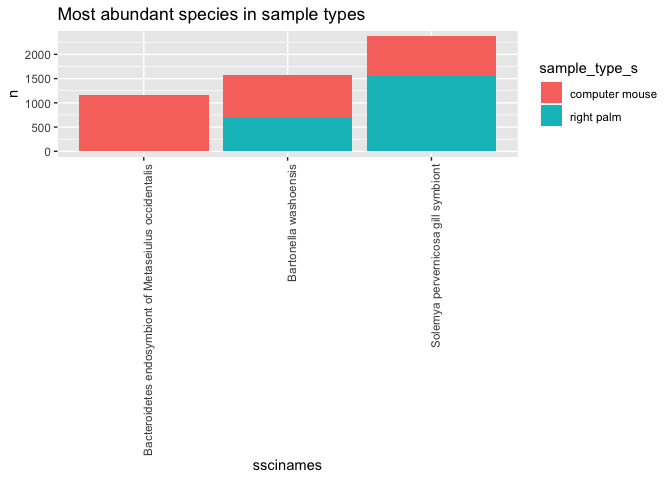
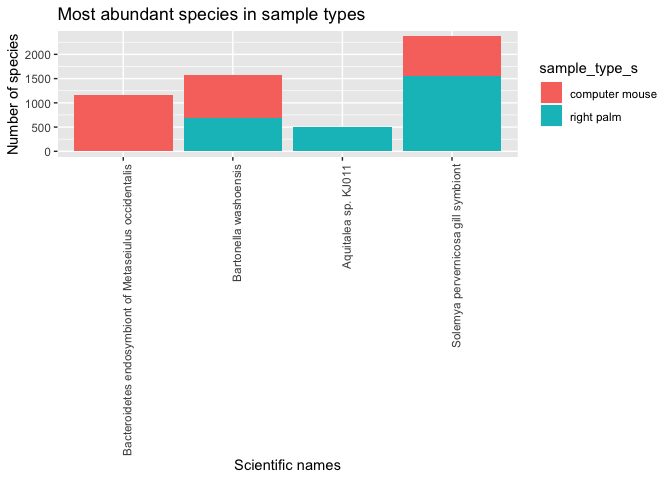
Add final project and analysis

diff --git a/Analysis_of_BLAST_Results.md b/Analysis_of_BLAST_Results.md
@@ -1,0 +1,273 @@
+Analysis of BLAST Results
+================
+Brian Rezende
+October 8, 2018
+
+Introduction
+============
+
+Advancements and implementation of sequencing caters to range of scientific questions that are in question. For instance, pyrosequencing is a method of DNA sequencing that relies on the detection of pyrophosphate release and generation of light on nucleotide incorporation. [Source](https://www.sciencedirect.com/topics/neuroscience/pyrosequencing) This particular type of sequencing has been beneficial in being able to quantitatively compare bacterial commmunities across various subjects. In scientific literature there has been an influx of research that highlights the diversity of skin-associated bacteria, which was once thought of as less diverse. This work has also demonstrated that there is high interindividual variability in the composition of these communities. Through using this approach we are better able to investigate communities that were once indistinguishable to us.
+
+Have you ever pondered on the number of individuals that pass through and use an institutes library a day? Quickly these spaces may turn into breeding grounds for bacteria and other microbial organisms. Though they remain invisible to the human eye, there is no denying their existence and ability to grow and spread exponentially. Fortunately, advancements in the field of sequencing have allowed for analysis of urban biomes. In this analysis we'll examine diverse skin-associated bacterial communities and their comparison to human bacterial communities. Findings centered around these communities have found that skin bacterial communities are personalized, yet there is a link between the residual skin bacteria left on objects and bacteria on the object that the individual last touched. This **revolutionary forensic practice** predicts and can even match the bacteria on objects that have been left untouched for up to two weeks. The bacteria range in place of origin and allow us to better understand the mechanisms of bacteria, the degree of variability, and to one day become integrated with *traditional* forensic practices.
+
+Methods
+=======
+
+Sample origin and sequencing
+----------------------------
+
+Fierer et. al provided the inital samples that promoted this analysis. They swabbed the palms of men and woman and computer mice at the University of Colorado, Boulder. By following a persistent trend that skin-associated bacteria leaves on objects and surfaces touched on a daily basis, they discovered abundant and diverse bacterial communities. The following criteria was required to properly link the bacteria from different environments: *Recovered bacterial DNA allows for adequate characterization and comparison of communities. *Persistance of skin-associated bacteria on surfaces for days to weeks \*Surfaces touched are effectively linked to individuals by assessing the similarity between the two bacterial communities. This was completed by carrying out three interrelated studies, which combined phylogenetic community analyses with a high throughput pyrosequencing approach.
+
+Add about a paragraph here.
+
+Computational
+-------------
+
+To initiate the project 20 raw fastq files were run through a pipeline that performed quality control checks. Information within these fastq files were from cultured swabs that originated from individual keys from three keyboards. These keyboard communities were then compared to the communities found on the fingertips of the respective keyboard user. These communities included the right palms of 5 human men, 5 human females, and 10 computer mice. The files were trimmed based on quality score and then converted to fasta files through the use of for loops. These files were then BLAST'ed against a local repository on GenBank to produce BLAST sequence code. By BLAST'ing a sample, it is being run against the database and looking for sequence matches. Following this pipeline, the fasta files were analyzed further by running the CSV files into an alternate pipeline. This allowed for greater specification in what the files contained and what we may infer from them.
+
+Once the BLAST sequence code was complete the output was marked down with R. The pyrosequencing technique aforementioned was used, thus generating an average of 1,4000 bacterial 16S rRNA gene sequences per sample. The BLAST results were transformed into figures rather than quantifiable data for further analysis. What this aims to answer is the validity of being able to quantitatively compare bacterial communities found on objects and skin to effectively match the individual to the object with a high degree of certainty.[Source](https://trace.ncbi.nlm.nih.gov/Traces/sra/sra.cgi?study=ERP022657) The final step included using another Genbank database with over 250 hand surfaces and matching the objects to specific individuals by the bacteria that was collected.
+
+The cultured swabs originated from individual keys from three keyboards. These keyboard communities were then compared to the communities found on the fingertips of the respective keyboard user. In order to further support their samples they obtained swabs from private and public computer keyboards to quantify the degree of correspondance between the owners "fingerprints" and their keyboard versus keyboards they have never used. Using the skin bacteria communities they examined how similar they were with objects stored at **-20ºC**. [Source](https://www.ncbi.nlm.nih.gov/bioproject/PRJEB20500/) This comparison is made due to the conditions closely matching ones that are imposed on stored samples before undergoing DNA extraction. The final step included using a Genbank database with over 250 hand surfaces and matching the objects to specific individuals by the bacteria that was collected.
+
+And another paragraph or two here.
+
+Results
+=======
+
+``` r
+# Be sure to install these packages before running this script
+# They can be installed either with the install.packages() function
+# or with the 'Packages' pane in RStudio
+
+# load packages
+library("dplyr")
+library("tidyr")
+library("knitr")
+library("ggplot2")
+```
+
+``` r
+# Output format from BLAST is as detailed on:
+# https://www.ncbi.nlm.nih.gov/books/NBK279675/
+# In this case, we used: '10 sscinames std'
+# 10 means csv format
+# sscinames means unique Subject Scientific Name(s), separated by a ';'
+# std means the standard set of result columns, which are:
+# 'qseqid sseqid pident length mismatch
+# gapopen qstart qend sstart send evalue bitscore',
+
+
+# this function takes as input a quoted path to a BLAST result file
+# and produces as output a dataframe with proper column headers
+# and the 'qseqid' column split into sample and seq number
+read_blast_output <- function(filename) {
+  data_in <- read.csv(filename,
+                      header = FALSE, # files don't have column names in them
+                      col.names = c("sscinames", # unique Subject Sci Name(s)
+                                    "qseqid",    # Query Seq-id
+                                    "sseqid",    # Subject Seq-id
+                                    "pident",    # Percntge of identical matches
+                                    "length",    # Alignment length
+                                    "mismatch",  # Number of mismatches
+                                    "gapopen",   # Number of gap openings
+                                    "qstart",    # Start of alignment in query
+                                    "qend",      # End of alignment in query
+                                    "sstart",    # Start of alignment in subj
+                                    "send",      # End of alignment in subject
+                                    "evalue",    # Expect value
+                                    "bitscore"))  # Bit score
+
+  # Next we want to split the query sequence ID into
+  # Sample and Number components so we can group by sample
+  # They originally look like "ERR1942280.1"
+  # and we want to split that into two columns: "ERR1942280" and "1"
+  # we can use the separate() function from the tidyr library to do this
+  # Note that we have to double escape the period for this to work
+  # the syntax is
+  # separate(column_to_separate,
+  # c("New_column_name_1", "New_column_name_2"),
+  # "seperator")
+  data_in <- data_in %>%
+    separate(qseqid, c("sample_name", "sample_number"), "\\.")
+}
+```
+
+``` r
+# this makes a vector of all the BLAST output file names, including
+# the name(s) of the directories they are in
+files_to_read_in <- list.files(path = "output/blast",
+                               full.names = TRUE)
+
+# We need to create an empty matrix with the right number of columns
+# so that we can rbind() each dataset on to it
+joined_blast_data <- matrix(nrow = 0,
+                            ncol = 14)
+
+# now we loop over each of the files in the list and append them
+# to the bottom of the 'joined_blast_data' object
+# we do this with the rbind() function and the function we
+# made earlier to read in the files, read_blast_output()
+for (filename in files_to_read_in) {
+  joined_blast_data <- rbind(joined_blast_data,
+                             read_blast_output(filename))
+}
+```
+
+``` r
+# Next we want to read in the metadata file so we can add that in too
+# This is not a csv file, so we have to use a slightly different syntax
+# here the `sep = "\t"` tells the function that the data are tab-delimited
+# and the `stringsAsFactors = FALSE` tells it not to assume that things are
+# categorical variables
+metadata_in <- read.table(paste0("data/metadata/",
+                                 "fierer_forensic_hand_mouse_SraRunTable.txt"),
+                          sep = "\t",
+                          header = TRUE,
+                          stringsAsFactors = FALSE)
+
+# Finally we use the left_join() function from dplyr to merge or 'join' the
+# combined data and metadata into one big table, so it's easier to work with
+# in R the `by = c("Run_s" = "sample_name")` syntax tells R which columns
+# to match up when joining the datasets together
+joined_blast_data_metadata <- metadata_in %>%
+  left_join(joined_blast_data,
+            by = c("Run_s" = "sample_name"))
+```
+
+``` r
+levels(factor(joined_blast_data_metadata$env_feature_s))
+```
+
+    ## [1] "human-associated habitat" "surface"
+
+``` r
+#group by species name and calculate mean percent identity
+joined_blast_data_metadata %>%
+  group_by(sscinames, sample_type_s) %>%
+  tally() %>%
+  filter(n > 475) %>%
+  ggplot(aes(x = sscinames,
+             y = n,
+             fill = sample_type_s)) +
+  geom_col()+
+  labs(x = "Scientific names") +
+  labs(y = "Number of species") +
+  theme(axis.text.x = element_text(angle = 90,
+                                   hjust = 1)) +
+ggtitle("Most abundant species in sample types")
+```
+
+![](Analysis_of_BLAST_Results_files/figure-markdown_github/group-by-summarize-1.png)
+
+``` r
+# grouping and summarizing to see how the types of taxa are similar on male/female
+# hands and computer mice
+joined_blast_data_metadata %>%
+  group_by(sample_type_s, sex_s, sscinames) %>%
+  tally() %>%
+  filter(n > 220) %>%
+  ggplot(aes(x = sample_type_s,
+             y = n,
+             fill = sscinames)) +
+    geom_col(position = position_dodge()) +
+    facet_wrap(~sex_s) +
+    theme(axis.text.x = element_text(angle = 60,
+                                     hjust = 1)) + 
+  labs(x = "Sample type") +
+  labs(y = "Number of species" ) +
+ggtitle("Similarity of taxa in sample types")
+```
+
+![](Analysis_of_BLAST_Results_files/figure-markdown_github/similarity%20of%20mouse%20taxa%20on%20student%20hands-1.png)
+
+``` r
+#group and track the sequence alignment length and number of mismatches 
+joined_blast_data_metadata %>%
+  group_by(length, mismatch) %>%
+  ggplot(aes(x = length,
+             y = mismatch)) +
+  geom_point() +
+  labs(x = "Sequence length") +
+  labs(y = "Number of Mismatches") +
+ggtitle("Mismatches in sequence lengths")
+```
+
+![](Analysis_of_BLAST_Results_files/figure-markdown_github/alignment%20length%20and%20errors-1.png)
+
+``` r
+# Here using the 
+joined_blast_data_metadata %>%
+  filter(bitscore < 200,
+         bitscore > 180) %>%
+  group_by(sscinames) %>%
+  summarize(mean_bitscore = mean(bitscore)) %>%
+  ggplot(aes(x = sscinames,
+             y = mean_bitscore))+
+  geom_col() +
+  labs(x = "Scientific names") +
+  labs(y = "Mean Bitscore") +
+  theme(axis.text.x = element_text(angle = 90,
+                                   hjust = 1)) +
+  ggtitle("Bitscores")
+```
+
+![](Analysis_of_BLAST_Results_files/figure-markdown_github/bitscore%20and%20organisms-1.png)
+
+``` r
+joined_blast_data_metadata %>%
+  filter(bitscore < 200,
+         bitscore > 150) %>%
+  select(sscinames) %>%
+  distinct() %>%
+  pull() -> low_bitscore
+```
+
+``` r
+joined_blast_data_metadata %>%
+  filter(sscinames %in% low_bitscore) %>%
+  group_by(sscinames) %>%
+  tally() %>%
+  arrange(desc(n))
+```
+
+    ## # A tibble: 74 x 2
+    ##    sscinames                                        n
+    ##    <fct>                                        <int>
+    ##  1 Solemya pervernicosa gill symbiont            2372
+    ##  2 unidentified bacterium                         420
+    ##  3 Cardiobacterium sp. feline oral taxon 346      101
+    ##  4 Lupinus angustiflorus                           92
+    ##  5 Alphaproteobacteria bacterium                   42
+    ##  6 Anaeroplasma abactoclasticum                    35
+    ##  7 bacterium endosymbiont of Onthophagus Taurus    35
+    ##  8 Ruminococcus sp.                                33
+    ##  9 Treubaria triappendiculata                      16
+    ## 10 bacterium WH3-2                                 14
+    ## # ... with 64 more rows
+
+``` r
+# Here we're using the dplyr piping syntax to select a subset of rows matching a
+# criteria we specify (using the filter) function, and then pull out a column
+# from the data to make a histogram.
+joined_blast_data_metadata %>%
+  filter(env_material_s == "sebum") %>%
+  ggplot(aes(x = pident)) +
+    geom_histogram() +
+    ggtitle("Percent Identity") +
+    xlab("Percent")
+```
+
+    ## `stat_bin()` using `bins = 30`. Pick better value with `binwidth`.
+
+![](Analysis_of_BLAST_Results_files/figure-markdown_github/histograms-1.png)
+
+In Figure 1 this demonstrates the top four species that were found in both the computer mice and the right palm of both men and women. The number of times that a species name was recognized is tallyed and plotted against its repsective name and demonstrates the abundance. It shows that **Solemya pervernicosa gill symbiont** has the greatest abundance on human hands while **Bacterioidetes endosymbiont of Metaseiulus occidentalis** has the greatest abundance on only computer mice. An interesting finding that this figure reports is that although **Aquitalea sp.KJ011** was amongst one of the most abundant bacterial species, it appeared only on human palms. Figure 2. aimed to delve greater into the distribution of the species in each specific sample type. It becomes evident that there is discrimination in the types of species that exist on male and female hands, while sharing some similarity with the computer mice. The computer mice samples have a greater distribution of bacterial communities, while the human palm communities are more heavily populated 1-2 communities. **Bartonella washoensis** is shown to appear more *only* on the palms of females while **Solemya pervernicosa gill symbiont** appears more *only* on the palms of males. This graph is taking the top reported communities and cross examining them to see if a community thrives on more than one sample type. Figure 3. offers a *broader* perspective on the analysis made. It demonstrates that as the sequence lengths increase, there is a steady increase in the number of mismatches. The shorter the sequence length is the less mismatches that are reported. It groups and tracks the sequence alingment length and number of mismatches. Figure 4. compiles the names of species that obtained a Bitscore in the range of 180-200. A Bitscore is generated by BLAST and it demonstrates that there is a greater accuracy in being able to match the sequences of the collected species to the Genbank database that it was compared to. It reports those that had greater sequence similarity and plots them against one another.
+
+Discussion
+==========
+
+Our initial analysis was run through a series of pipelines and parameters. The pipelines served as a method to infer specifics and clean up the data before running it through RStudio parameters. Beginning with Figure 1. that details the top four bacterial species found within the samples, it allows for more detailed analysis of the communities. This can be viewed as the foundation of the analysis because it demonstrates which community has the greatest prevalence on the samples. Solemya pervernicosa gill symbiont appeared on four of the five male subjects that were tested and sequenced, which correlates with their greater appereance on male subjects as opposed to female or computer mice subjects. This type of bacteria is interesting due to its origin being from northwestern Japan. Despite its vast travel length, it is found commonly in both male hand samples and computer mice. In contrast, there was a greater prevalence of *Bartonella washoensis* in both female hand samples and computer mice, which could be inferred from their source of mitral valve endocarditis. This bacteria was spread from dogs to squirrels and it was correlated to causing meningitis in humans. Despite the bacteria holding implications for viral infections, it is tamed and exists on communities in common sample types.
+
+Morever, Figure 3 is especially interesting due to being able to track the number of mismatches within the sequence lengths. This leads us to believe that with better sequencing techniques we would be able to achieve a higher level of similarity within the species and sample types. A baseline exists towards the longer end of the sequences, which leads us to believe that there is an organism that did not register an appropriate number of sequences. Other organisms have a straight plot that demonstrates frequent mismatches as the sequence length increases. There is a greater density and spread as the sequence length increases, which could be reconclied by using more advanced sequencing methods.
+
+In Figure 4. the distribution of Bitscores is interesting to examine due to its spread across several species. It is crucial to consider that the higher the Bitscore the greater the sequence similarity is. If there is a higher Bitscore then we are able to better trust of the sequence names and how it compares to the GenBank database. Once we're able to better match the species sequences to the GenBank database we can infer that the pipeline and BLAST sequencing is accuarate in reproducing data. Future implications that this holds is that through better sequencing techniques and an increased sample type we can better relate sample types and different bacteria that exist on them. If we are able to limit the number of mismatches and sequence length then there would be a greater accuracy of quantifying the type of communities that exist on humans, animals, and other objects.
